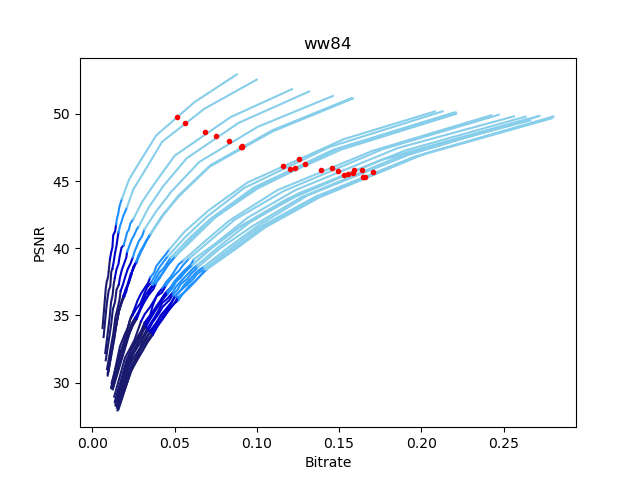
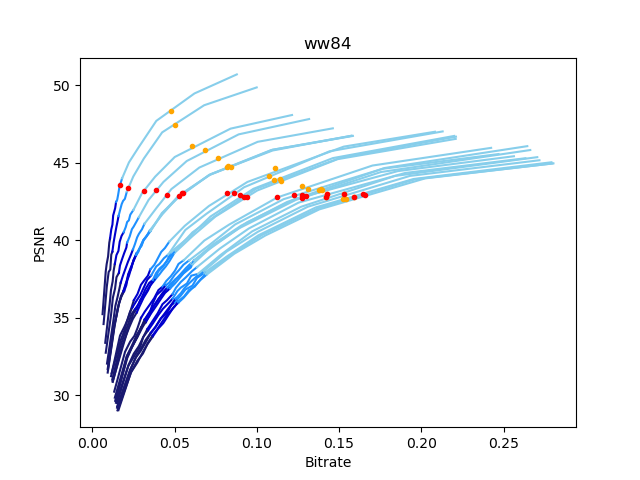
Improve multi.

diff --git a/multi.py b/multi.py
@@ -1,3 +1,4 @@
+import argparse
 import multiprocessing
 import os
 import sys
@@ -36,7 +37,7 @@ def plot_multi(directory, estimator):
         plt.plot(bitrate[p75:], psnr[p75:], color="skyblue")
 
 
-def plot_q(directory, estimator, quality):
+def plot_q(directory, estimator, quality, point_color="r"):
     """Plots bitrate-PSNR at fixed quality for all images in directory."""
     for filename in os.listdir(directory):
         if not filename.lower().endswith((".png", ".jpg", ".jpeg", ".tiff", ".bmp", ".gif")):
@@ -46,30 +47,48 @@ def plot_q(directory, estimator, quality):
         i = int(filename.split(".")[0].split("_")[1])
         method = 4
         filename = directory + "/" + filename
-        sz, psnr = process_q(filename, quality[i], method, estimator)
+
+        q = None
+
+        if type(quality) is int:
+            q = quality
+        elif type(quality) is list:
+            q = quality[i]
+
+        sz, psnr = process_q(filename, q, method, estimator)
         im = Image.open(filename)
         bitrate = sz / (im.size[0] * im.size[1])
-        plt.plot(bitrate, psnr, ".", color="r")
+        plt.plot(bitrate, psnr, ".", color=point_color)
 
 
 def main():
-    directory = sys.argv[1]
-    estimator = "psnr"
-    quality = []
+    parser = argparse.ArgumentParser(description="""
+        Display RD curves for all images in a directory.
+    """)
+    parser.add_argument("directory", help="directory containing images")
+    parser.add_argument(
+        "-s", "--ssim", action='store_true', help="use SSIM instead of PSNR")
+    parser.add_argument("-q", "--quality", type=int,
+                        default=None, help="plot points of fixed quality")
+    parser.add_argument("-mq", "--multi_quality", action='store_true',
+                        help="enable plotting points of varied quality values")
 
-    if len(sys.argv) == 3:
-        assert sys.argv[2] in ["psnr", "ssim"], "Invalid estimator."
-        estimator = sys.argv[2]
+    args = parser.parse_args()
+    directory = args.directory
+    estimator = "ssim" if args.ssim else "psnr"
+    quality = args.quality
 
     print("Multi started.")
     plot_multi(directory, estimator)
     print("Multi completed.")
 
-    if len(sys.argv) == 4:
-        assert sys.argv[3] == "q"
-        print("Enter quality for each frame:")
-        quality = list(map(int, input().split()))
-        plot_q(directory, estimator, quality)
+    if quality is not None:
+        plot_q(directory, estimator, quality, "orange")
+
+    if args.multi_quality:
+        print("List of quality values:")
+        multi_quality = list(map(int, input().split()))
+        plot_q(directory, estimator, multi_quality, "r")
 
     plt.title(directory)
     plt.xlabel("Bitrate")

diff --git a/psnr.py b/psnr.py
@@ -18,6 +18,7 @@ def process_q(filename, q, m, estimator):
     subprocess.run(cmd_cwebp, shell=True, stderr=subprocess.DEVNULL)
     disto = subprocess.run(cmd_disto, shell=True, capture_output=True)
     sz, psnr = re.search(r"\d+ \d+.\d+", str(disto.stdout)).group(0).split(" ")
+    os.remove(filename_webp)
     return int(sz), float(psnr)
 
 

diff --git a/README.md b/README.md
@@ -11,7 +11,7 @@
 ```$ python psnr.py filename [{psnr/ssim}]```
 
 ### Display RD curves for a directory containing images
-```$ python multi.py directory [{psnr/ssim} {q}]```
+```$ python multi.py [-h] [-s] [-q QUALITY] [-mq] directory```
 
 ## Extras
 
